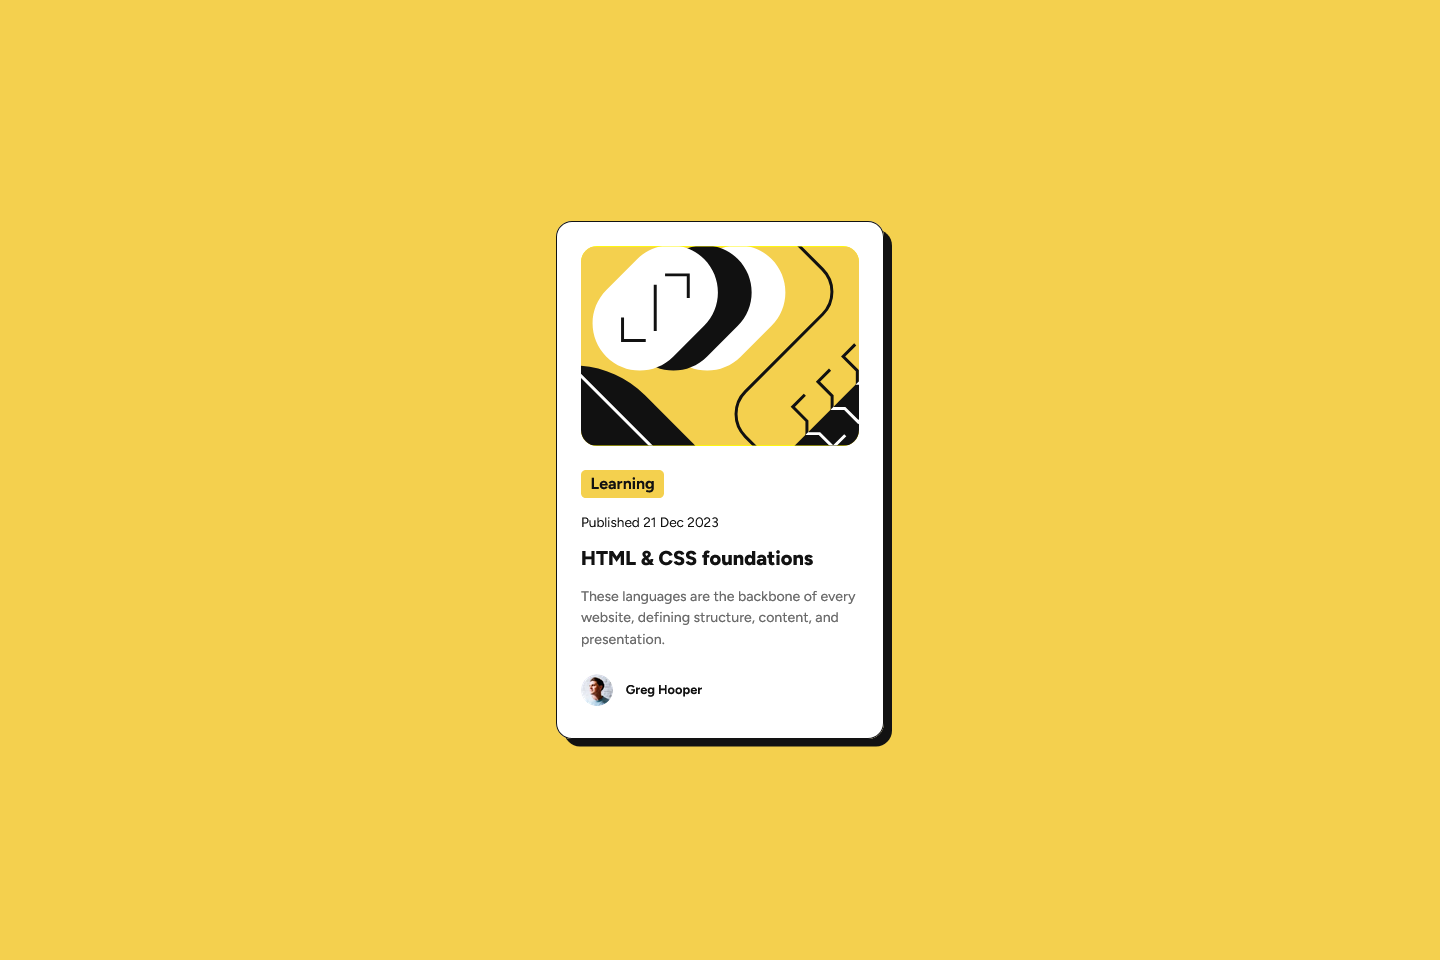
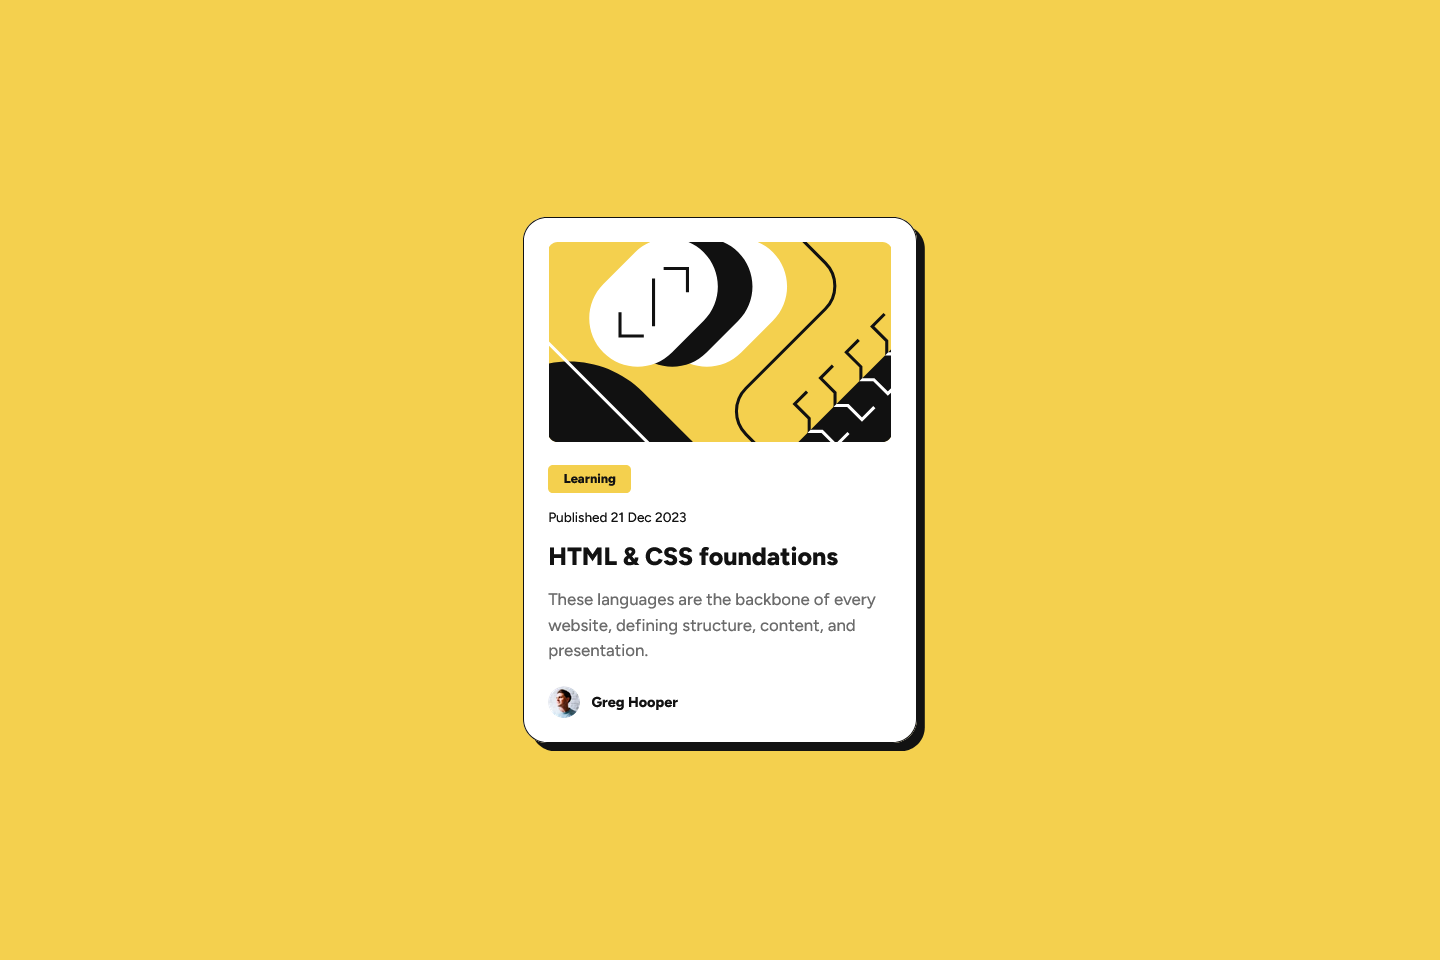
design fixes

Changed region(s): [[0.3438, 0.2188, 0.6562, 0.7812]]

diff --git a/style.css b/style.css
@@ -14,7 +14,7 @@
   --card-bg: hsl(0, 0%, 100%);
   --text-color: hsl(0, 0%, 7%);
   --border-color: hsl(0, 0%, 7%);
-  --border-radius: 1rem;
+  --border-radius: 1.5rem;
   --margin-block-end: 1rem;
 }
 
@@ -45,25 +45,27 @@ body,main {
     height: 12.5rem;
     margin: 0;
     object-fit: cover;
-    border-radius: 1rem;
+    border-radius: 0.6rem;
     margin-block-end: 1.2rem;
 }
 
 .tag {
     display: block;
     background: var(--primary-bg);
-    max-width: fit-content;
-    padding: .3rem .6rem;
+    max-width: 5.2rem;
+    padding: .4rem;
     border-radius: .3rem;
     margin-block-end: var(--margin-block-end);
     text-align: center;
-    font-size: 1rem;
+    font-size: 0.8rem;
+    font-weight: 800;
 }
 
 time {
     display: block;
     color: var(--text-color);
     font-size: .85rem;
+    font-weight: 500;
     margin-block-end: var(--margin-block-end);
 }
 
@@ -80,6 +82,10 @@ a:hover {
     color: var(--primary-bg);
 }
 
+a:focus {
+    color: var(--primary-bg);
+    text-decoration: underline;
+}
 
 p {
     font-size: .88rem;
@@ -92,8 +98,8 @@ p {
 .author-info {
     display: flex;
     align-items: center;
-    gap: .8rem;
-    margin-block-end: calc(var(--margin-block-end)/2);
+    gap: .7rem;
+    margin-block-end: 0;
 }
 
 .avatar {
@@ -103,8 +109,8 @@ p {
 }
 
 .author {
-    font-size: .8rem;
-    font-weight: bolder;
+    font-size: .9rem;
+    font-weight: 800;
     color: var(--text-color);
 }
 
@@ -112,4 +118,31 @@ p {
 /* Utility classes */
 .hidden {
   display: none;
+}
+
+
+/* Media Queries */
+@media (min-width: 600px) {
+  .card {
+    max-width: 24.6rem;
+    padding: 1.5rem;
+  }
+
+  .card-image-wrapper {
+    width: 100%;
+    overflow: hidden;
+  }
+
+  .card-image {
+    object-fit: cover;
+    border-radius: .6rem;
+  }
+
+  a {
+    font-size: 1.56rem;
+  }
+
+  p {
+    font-size: 1.05rem;
+  } 
 }

diff --git a/index.html b/index.html
@@ -17,7 +17,9 @@
 
     <article class="card">
 
-      <img src="./assets/images/illustration-article.svg" alt="a random Illustration" class="card-image" />
+      <section class="card-image-wrapper">
+        <img src="./assets/images/illustration-article.svg" alt="a random Illustration" class="card-image" />
+      </section>
 
       <strong class="tag">Learning</strong>
 
